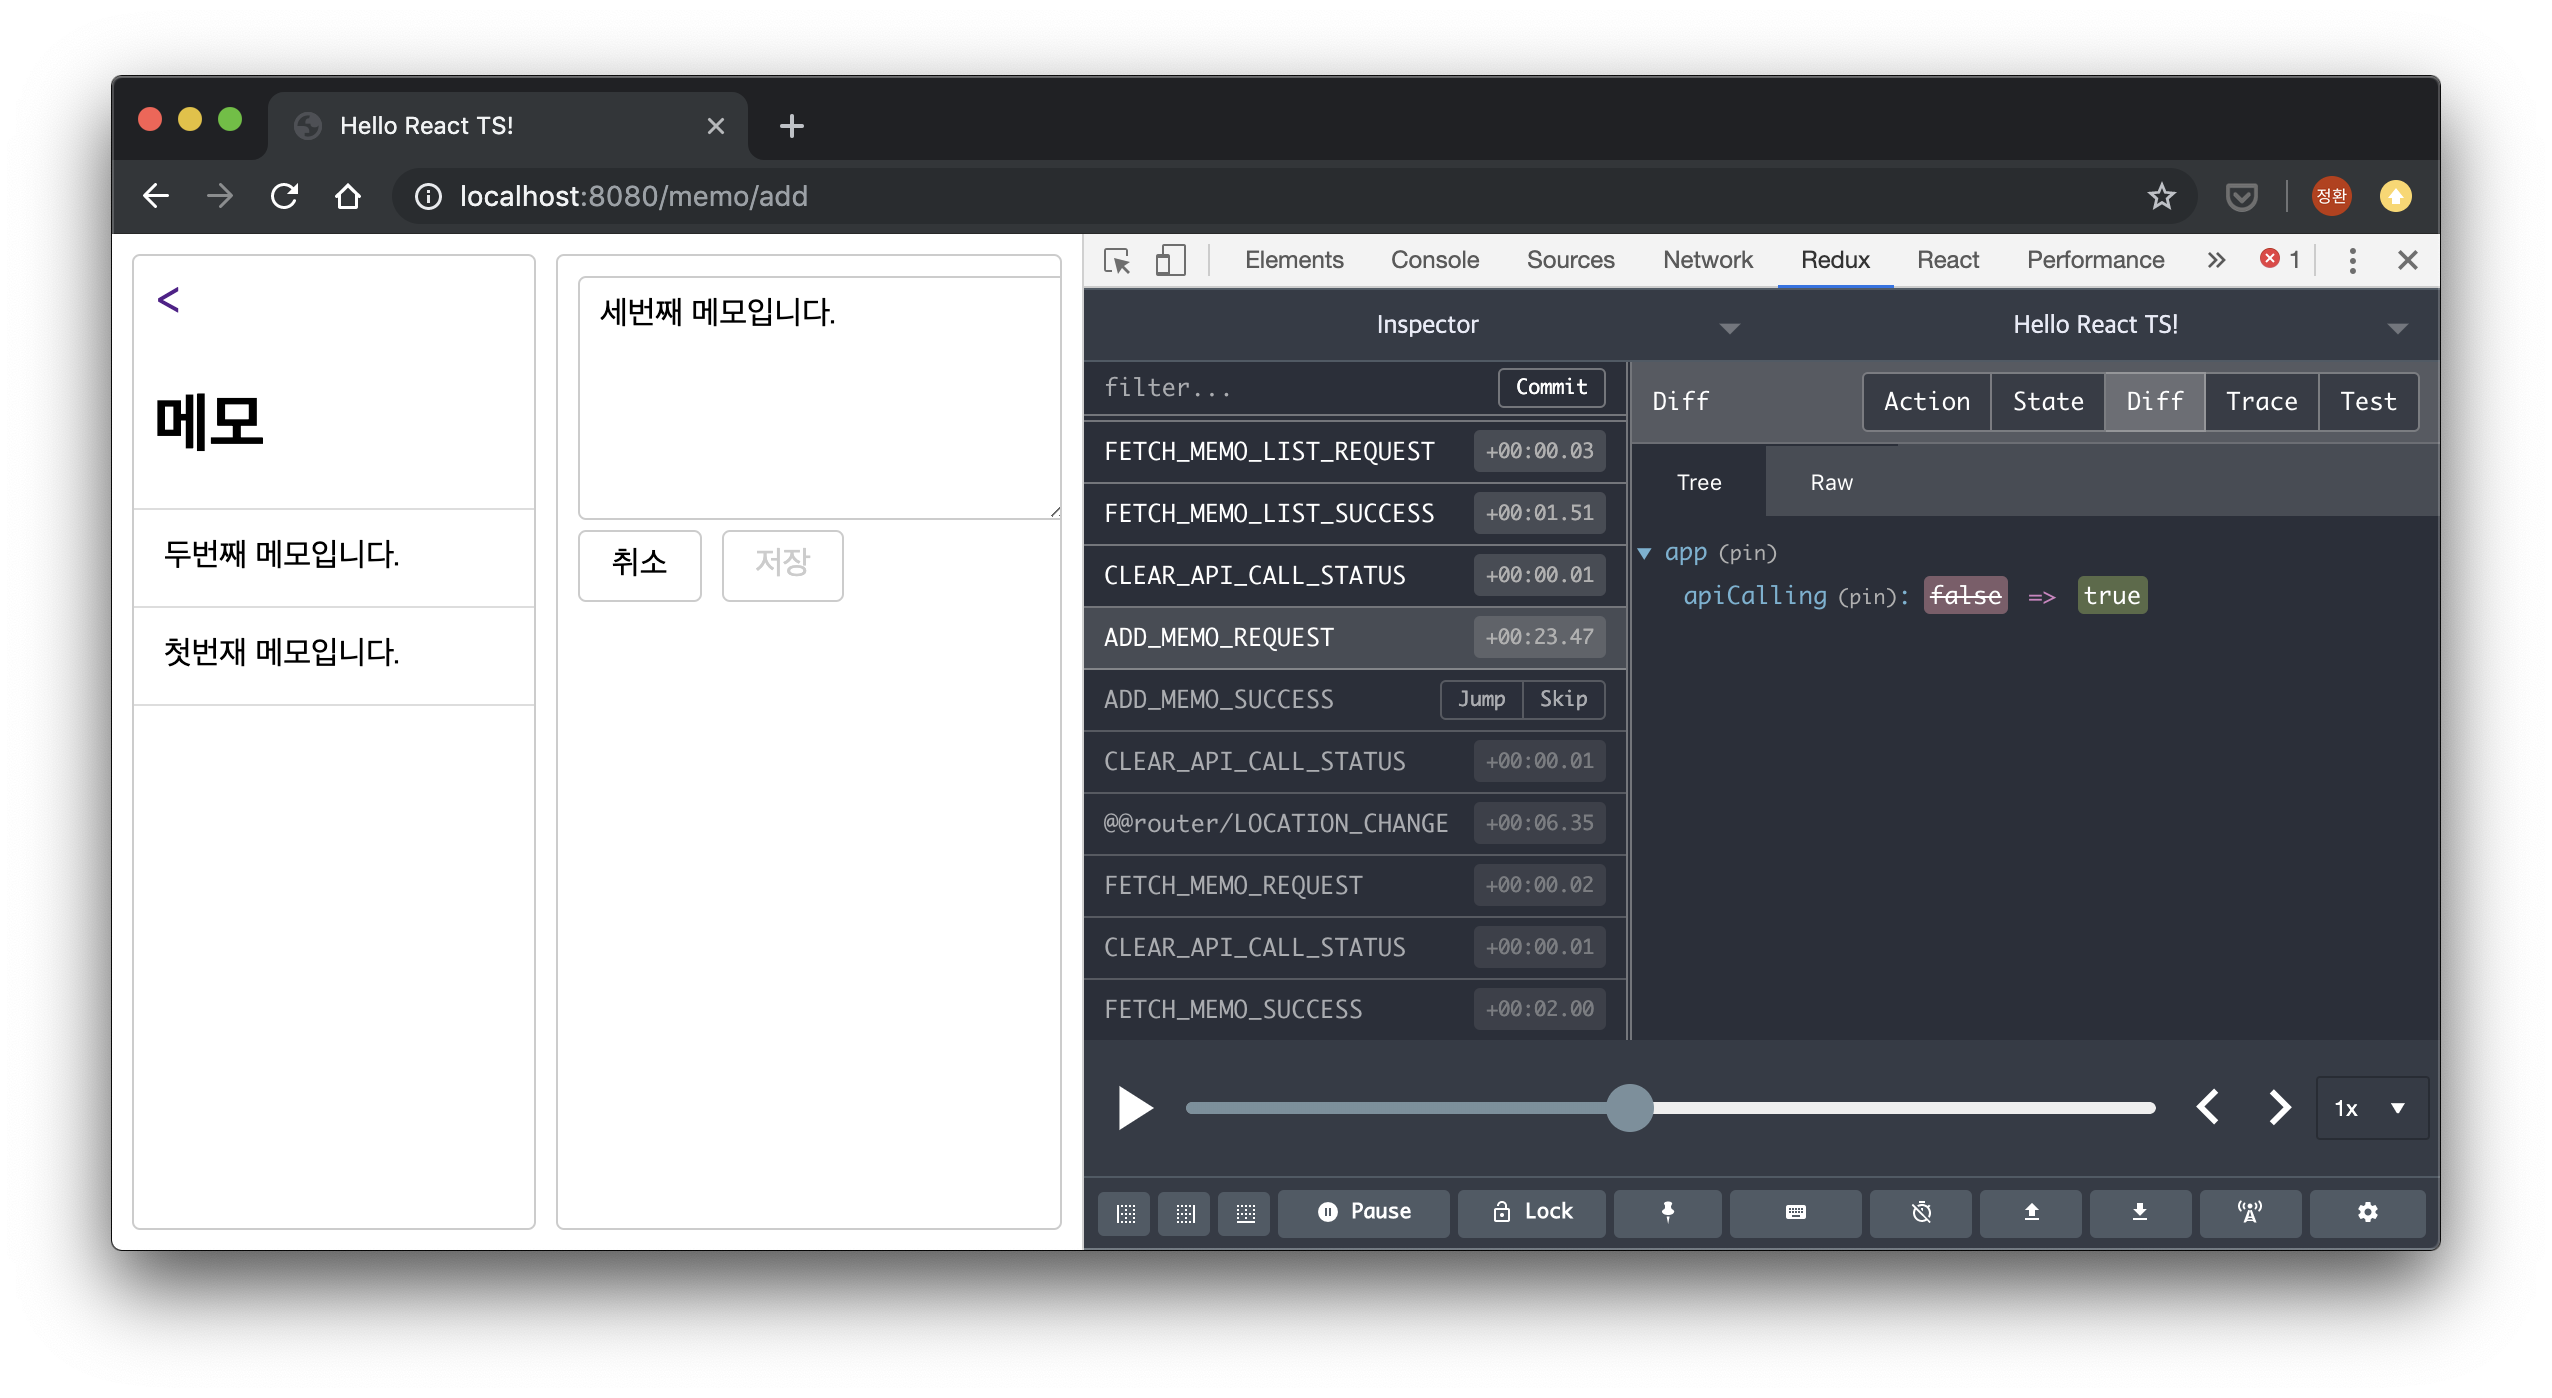
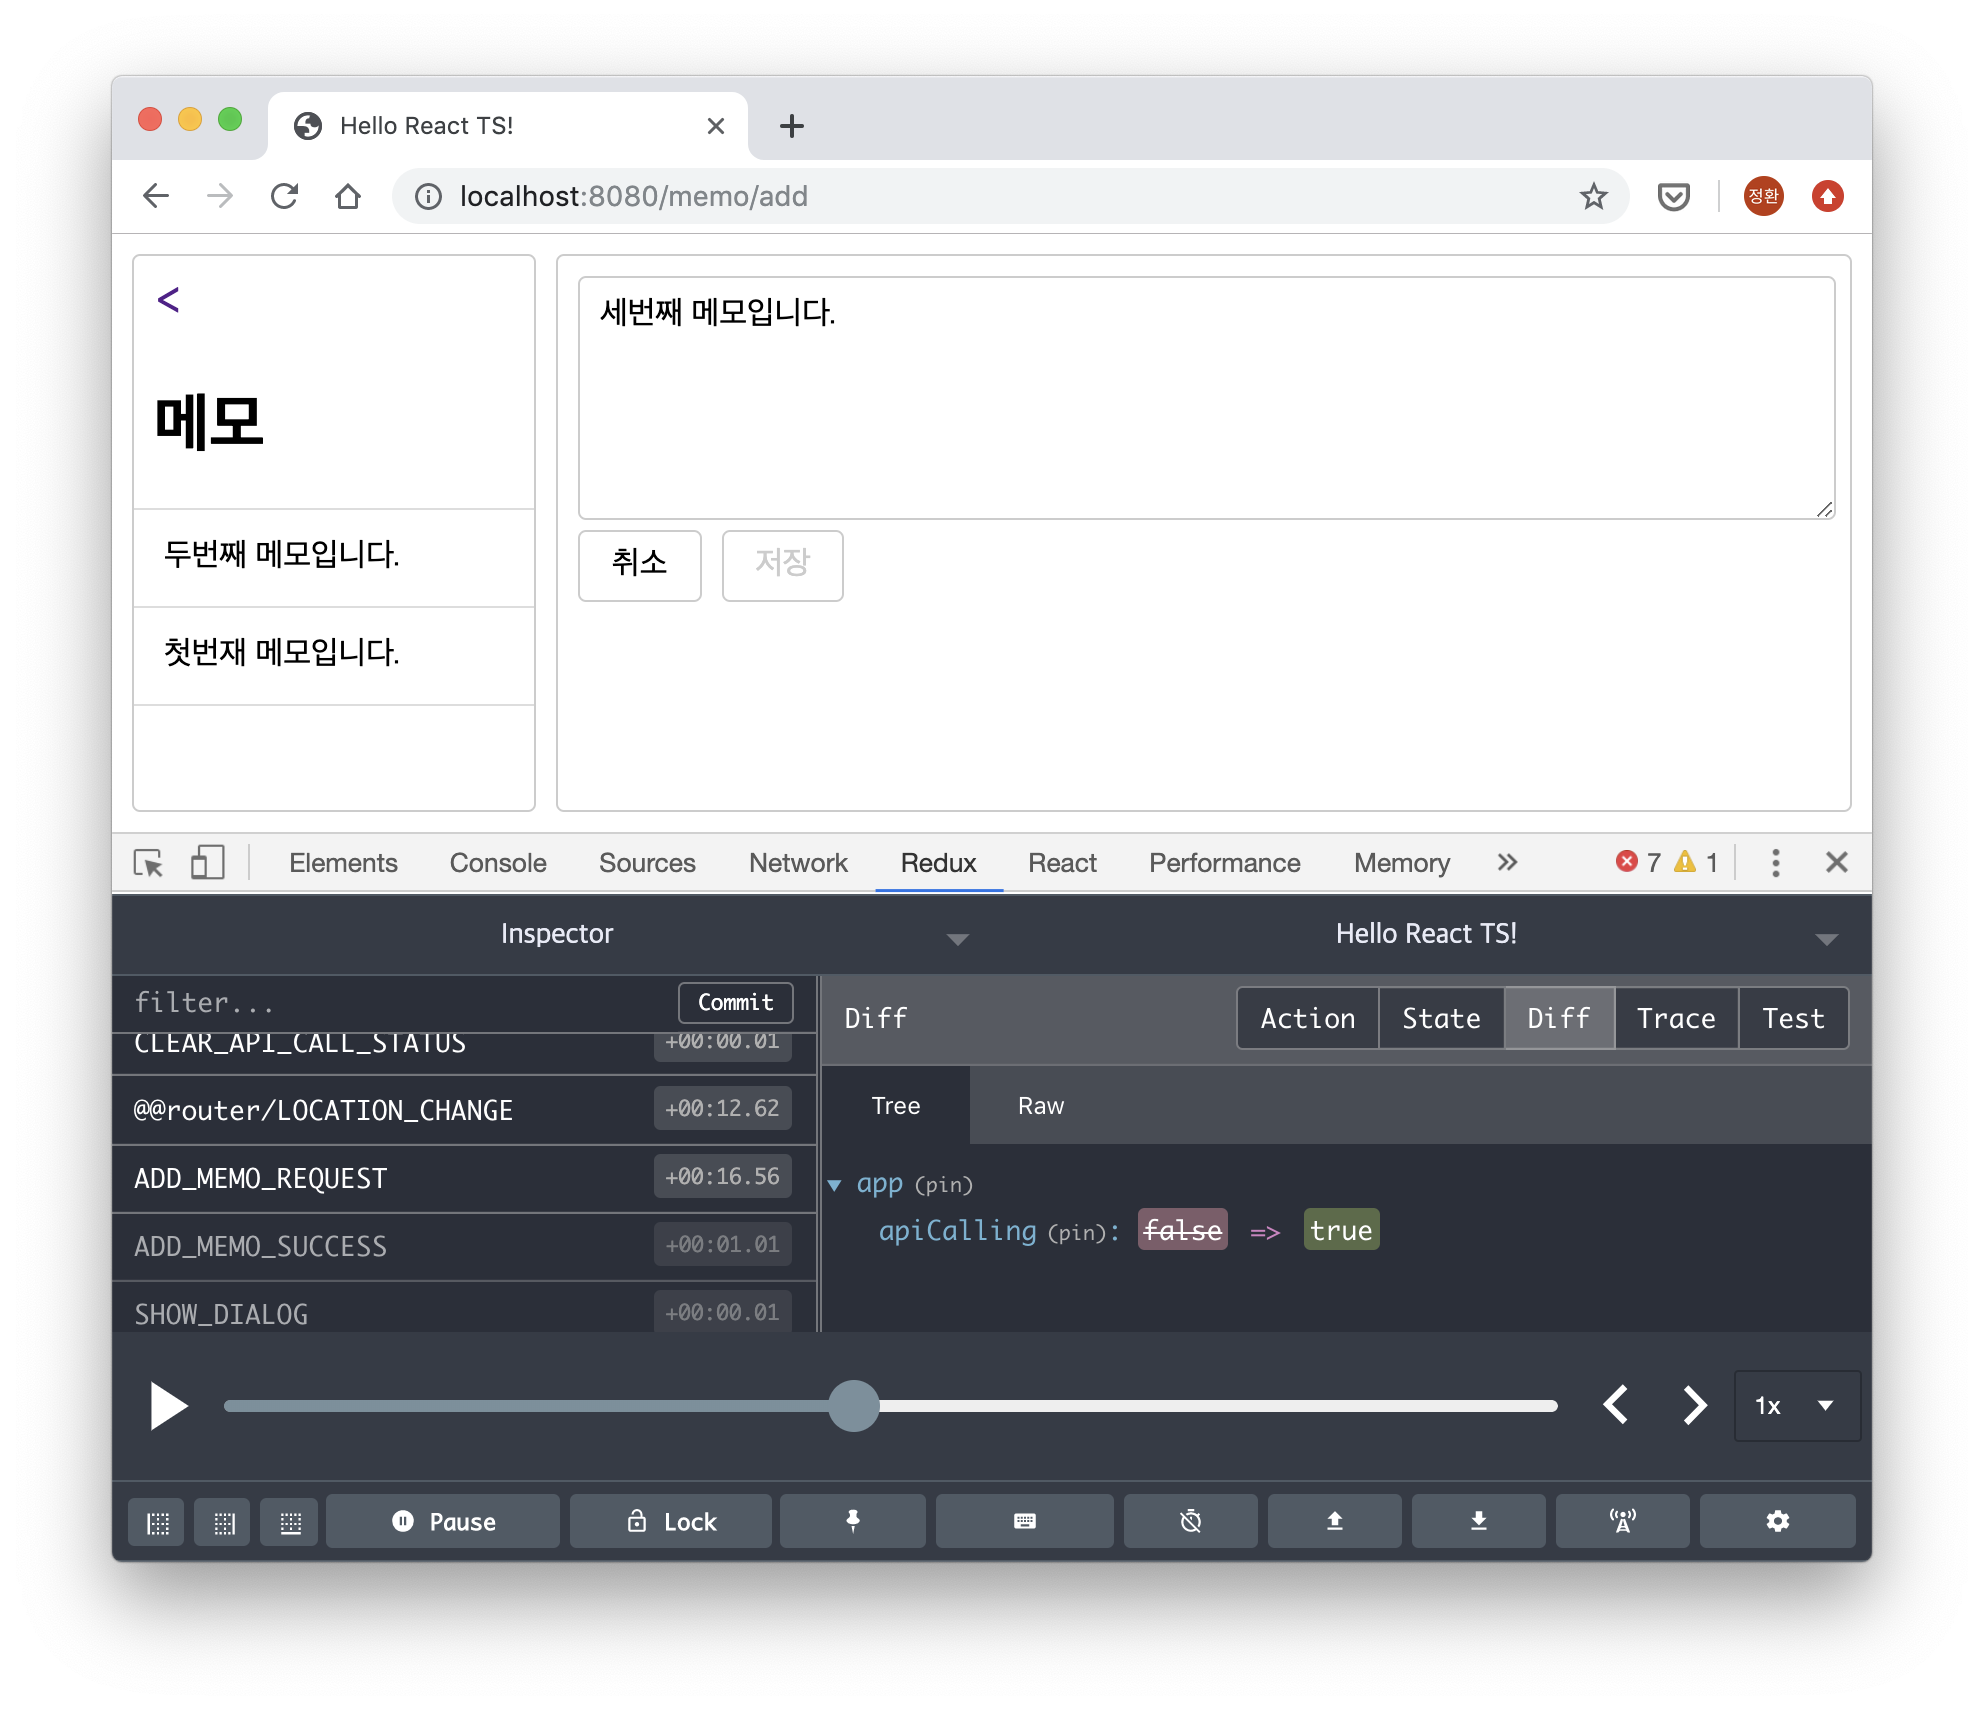
리액트 사가 사용하기 (타입스크립트 버전) - 2편: 정리 추가

diff --git a/_posts/2019/07/2019-07-29-react-saga-ts-2.md b/_posts/2019/07/2019-07-29-react-saga-ts-2.md
@@ -43,7 +43,7 @@ export interface AddMemoAction {
   type: typeof types.ADD_MEMO_REQUEST
   payload: Memo
 }
-
+ㅍ
 export const addMemo = (memo: Memo): AddMemoAction => ({
   type: types.ADD_MEMO_REQUEST,
   payload: memo
@@ -65,8 +65,8 @@ function addMemo$(action: AddMemoAction) {
 }
 ```
 
-`takeLatest()` 함수로 `ADD_MEMO_REQUEST` 액션을 감시하는 `addMemo$()` 제네레이터는 액션 객체를 인자로 받는다. 
-미리 정의한 `AddMemoAction` 인터페이스를 이용해 전달받은 액션 구조를 정확히 추적할 수 있다.
+`takeLatest()` 함수로 `ADD_MEMO_REQUEST` 액션을 감시하고 있다가 `addMemo$()`를 실행하도록한다.
+이 제네레이터는 액션 객체를 인자로 받는데 미리 정의한 `AddMemoAction` 인터페이스를 이용해 전달받은 액션 구조를 정확히 추적할 수 있다.
 
 이 액션 객체를 이용해 메모 추가 로직 작성해 보자.
 
@@ -83,7 +83,13 @@ function* addMemo$(action: AddMemoAction) {
     yield put({ type: ADD_MEMO_SUCCESS, payload: memo })
 
     // 얼럿창으로 유저에게 피드백
-    yield call(window.alert, '메모가 생성되었습니다. 메뉴 수정 화면으로 이동합니다.')
+    yield put({ type: SHOW_DIALOG, payload: {
+      type: 'alert',
+      text: '메모가 생성되었습니다. 메뉴 수정 화면으로 이동합니다.'
+    }})
+    
+    // 얼럿을 닫을 때까지 대기 
+    yield take(CONFIRM_DIALOG)
     
     // 생성된 메모 조회 화면으로 이동
     yield put(push(`/memo/${memo.id}`))
@@ -99,13 +105,13 @@ function* addMemo$(action: AddMemoAction) {
 프라미스를 반환하는 `api.addMemo()` 함수를 `call()` 이팩트로 실행했다. 
 액션으로 받은 페이로드를 인자로 전달했는데 이것은 `AddMemoAction` 타입의 페이로드가 `Memo` 타입이기 때문이다. (`api.addMemo()`는 `Memo` 타입을 인자로 받는다)
 
-Api 응답에 성공하면 메모 데이터가 넘어오는데 이것을 스토어 상태로 저장하기 위해 `ADD_MEMO_SUCCESS` 액션을 디스패치한다. 
+Api 응답에 성공하면 메모 데이터를 얻을 수 있는데 이것을 스토어 상태로 저장하기 위해 `ADD_MEMO_SUCCESS` 액션을 발행한다. 
 사가는 액션만 발행하고 상태 갱신은 리듀서의 몫으로 남겨 두는 것이 사가 작성의 묘미다.
 
-다음은 `alert()` 함수로 유저에게 화면 이동을 알린다. 
-동기 함수이지만 커스텀 알럿 컴포넌트를 이용한다면, 그리고 그것이 프라미스를 반환하는 비동기 동작이라면 `call()` 함수로 호출할 수 있다. 
-커스텀 알럿을 생성하기 위한 액션 타입이 정의되어 있다면 `put(SHOW_ALERT)`처럼 액션을 디스패치해도 된다. 
-여기서 말하고자 하는 것은 비동기 얼럿을 사용할 때도 사가 함수 안에서 `call()` 이펙트로 제어하면 된다는 것이다.
+다음은 미리 만들어둔 다이얼로그 액션 `SHOW_DIALOG`을 디스패치하여 팝업창을 띄웠다.
+입력한 메모가 생성되었다는 메세지를 피드백한다.
+
+유저가 다이얼로그를 닫으면 `CONFIRM_DIALOG` 액션이 발행하는데 이때까지 사가 로직을 대기하도록 `take()` 이펙트 함수를 사용했다. 
 
 유저 피드백 후 생성된 메모 조회 화면 이동하도록 한다.
 이것을 위해 `push()` 함수를 사용했는데 주소 이동을 위한 액션 생성자 함수를 반환한다.
@@ -113,7 +119,7 @@ connected-redux-router 패키지에서 가져왔다.
 
 사가 함수의 최종 종착지인 `finally` 구문에서는 api 작업 종료를 의미하는 `CLEAR_API_CALL_STATUS` 액션을 발행했다. 
 
-이렇게 제네레이터로 작성하는 리덕스 사가함수를 이용하면 비동기 로직을 수월하게 관리할수 있다.
+이렇게 제네레이터로 작성하는 리덕스 사가함수를 이용하면 비동기 로직을 비교적 간편하게 관리할수 있다.
 
 한편 컴포넌트에서는 어떻게 사용했는지 살펴보자.
 containers/AddMemo.tsx
@@ -209,23 +215,26 @@ class AddMemoPage extends React.Component<Props> {
 
 ![add02](/assets/imgs/2019/07/29/add02.png)
 `ADD_MEMO_REQUEST` 타입의 액션이 발행되었다. 
-`apiCalling` 상태값이 세팅되어서 이것과 연결되 저장 버튼이 비활성화 되었다. 
+`apiCalling` 상태값이 세팅되어서 이것과 연결된 저장 버튼이 비활성화 되었다. 
 
 ![add03](/assets/imgs/2019/07/29/add03.png)
-`ADD_MEMO_SUCCESS` 액션과 `CLEAR_API_CALL_STATUS` 액션이 발행되었다.
-좌측 메모 목록에 세번째 메모가 추가 되었고 저장 버튼이 다시 활성화 되었다.
+`ADD_MEMO_SUCCESS` 액션과 `SHOW_DIALOG` 액션이 발행되었다.
+좌측 메모 목록에 세번째 메모가 추가 되었고 다이얼로그가 보인다.
 
 ![add04](/assets/imgs/2019/07/29/add04.png)
+다이얼로그의 확인 버튼을 클릭하면 `CONFIRM_DIALOG` 액션이 발행되어 다이얼로그 창이 닫힌다.
+
+![add05](/assets/imgs/2019/07/29/add05.png)
 새로 만든 메모 조회 화면(/memos/3) 으로 이동했다. 
 
 
 ## 비동기 처리 실패 피드백: 토스트 띄우기
 
-지금까지 사가함수에서 실패처리는 비어있는 `catch` 구문으로 남겨 두었다. 모두 Api 통신을 다루는 함수 였는데 실패한다면 어떻게 처리하는 것이 좋을까? 
+지금까지 사가함수에서 실패처리는 비어있는 `catch` 구문으로 남겨 두었다. 모두 api 통신을 다루는 함수 였는데 실패한다면 어떻게 처리하는 것이 좋을까? 
 
 ![toast gif](/assets/imgs/2019/07/29/toast00.png)
 
-실패 메세지를 토스트로 보여주는 기능을 만들어 보자. 
+실패 메세지를 우측에 보이는 토스트로 보여주는 기능을 만들어 보자. 
 
 먼저 토스트를 리덕스로 관리하기 위한 모델부터 정의한다.
 models/index.ts
@@ -290,7 +299,7 @@ const appReducer = (
 토스트 추가 액션은 기존 배열에 새로운 토스트 객체를 추가한다. 
 반대로 토스트 제거 액션은 특정 아이디의 토스트를 배열에서 제거한다.
 
-간단히 리듀서 로직을 작성했으면 `SHOW_TOAST` 액션 타입을 위한 사가 함수를 만들 차례다. 
+리듀서 로직을 작성했으면 `SHOW_TOAST` 액션 타입을 위한 사가 함수를 만들 차례다. 
 sagas/index.ts
 
 ```ts
@@ -364,7 +373,7 @@ export default function* rootSaga() {
 ```
 
 `takeEvery()` 이팩터는 액션 타입 문자열을 받지만 타입의 패턴을 계산하는 함수를 받을 수도 있다.
-`_FAILURE` 로 끝나는 액션타입을 모두 감지해서 `handleFailure()` 제네레이터를 실행하도록 했다.
+`_FAILURE` 로 끝나는 액션타입을 모두 감지해서 `handleFailure$()` 제네레이터를 실행하도록 했다.
 
 ```ts
 function* handleFailure$(action: {payload: any}) {
@@ -393,6 +402,7 @@ function* addMemo$(action: AddMemoAction) {
   }
 }
 ```
+
 `ADD_MEMO_FAILURE` 액션을 발행했는데 `_FAILURE` 로 끝나는 액션 타입이기 때문에 이를 감시하고 있는 사가함수에 의해 `handleFailure$()` 사가가 동작할 것이다.
 
 이제 스토어에 있는 토스트 상태와 컴포넌트를 연결한다.
@@ -404,7 +414,7 @@ compoentns/Layout.tsx
 const Layout: React.FC = props => {
   <React.Fragment>
     // 토스트 리스트 컨테이너를 추가한다
-    <ToastList />
+    <ToastListContainer />
     <div>{props.children}</div>
   </React.Fragment>
 ```
@@ -490,7 +500,7 @@ export default function* rootSaga() {
 }
 ```
 
-액션이 많아질수록 사가 함수도 증가할텐데 이런식으로 하나의 제네레이터로만 관리하면 한계에 이른다.
+액션이 많아질수록 사가 함수 갯수도 늘어날텐데 이런식으로 하나의 제네레이터로만 관리하면 한계에 이른다.
 메모 관련한 사가와 어플리케이션 사가로 나누었는데 이 녀석들을 서브 사가 함수로 분리할 수 있다. 
 
 먼저 메모 사가를 sagas/memo.ts 파일에 분리해 보자.
@@ -561,3 +571,17 @@ export default function* rootSaga() {
 
 ## 정리 
 
+사가 함수를 이용한 예제를 살펴 보았다. 
+비동기 제어를 담당하는 사가는 다양한 함수를 통해 마치 동기 코드처럼 관리할 수 있는데 이를 이펙터라고 부른다.
+
+* `put()`: 액션을 발행한다
+* `call()`: 함수를 실행한다 
+* `take()`: 액션 발행을 대기한다 
+* `delay()`: 실행을 지연한다
+* `all()`: 사가 함수를 동시에 실행한다 
+
+Api 통신과 유저 인터렉션 코드를 사가로 작성하면 비교적 쉽게 로직을 작성할 수 있다. 
+
+설명이 부족한 부분은 아래 전체 코드를 보면서 확인해 보도록하고 리덕스 이쯤해서 사가 사용법에 대한 글을 마무리하겠다.
+
+전체 코드: [https://github.com/jeonghwan-kim/study-react-ts/tree/master/redux-saga](https://github.com/jeonghwan-kim/study-react-ts/tree/master/redux-saga)
